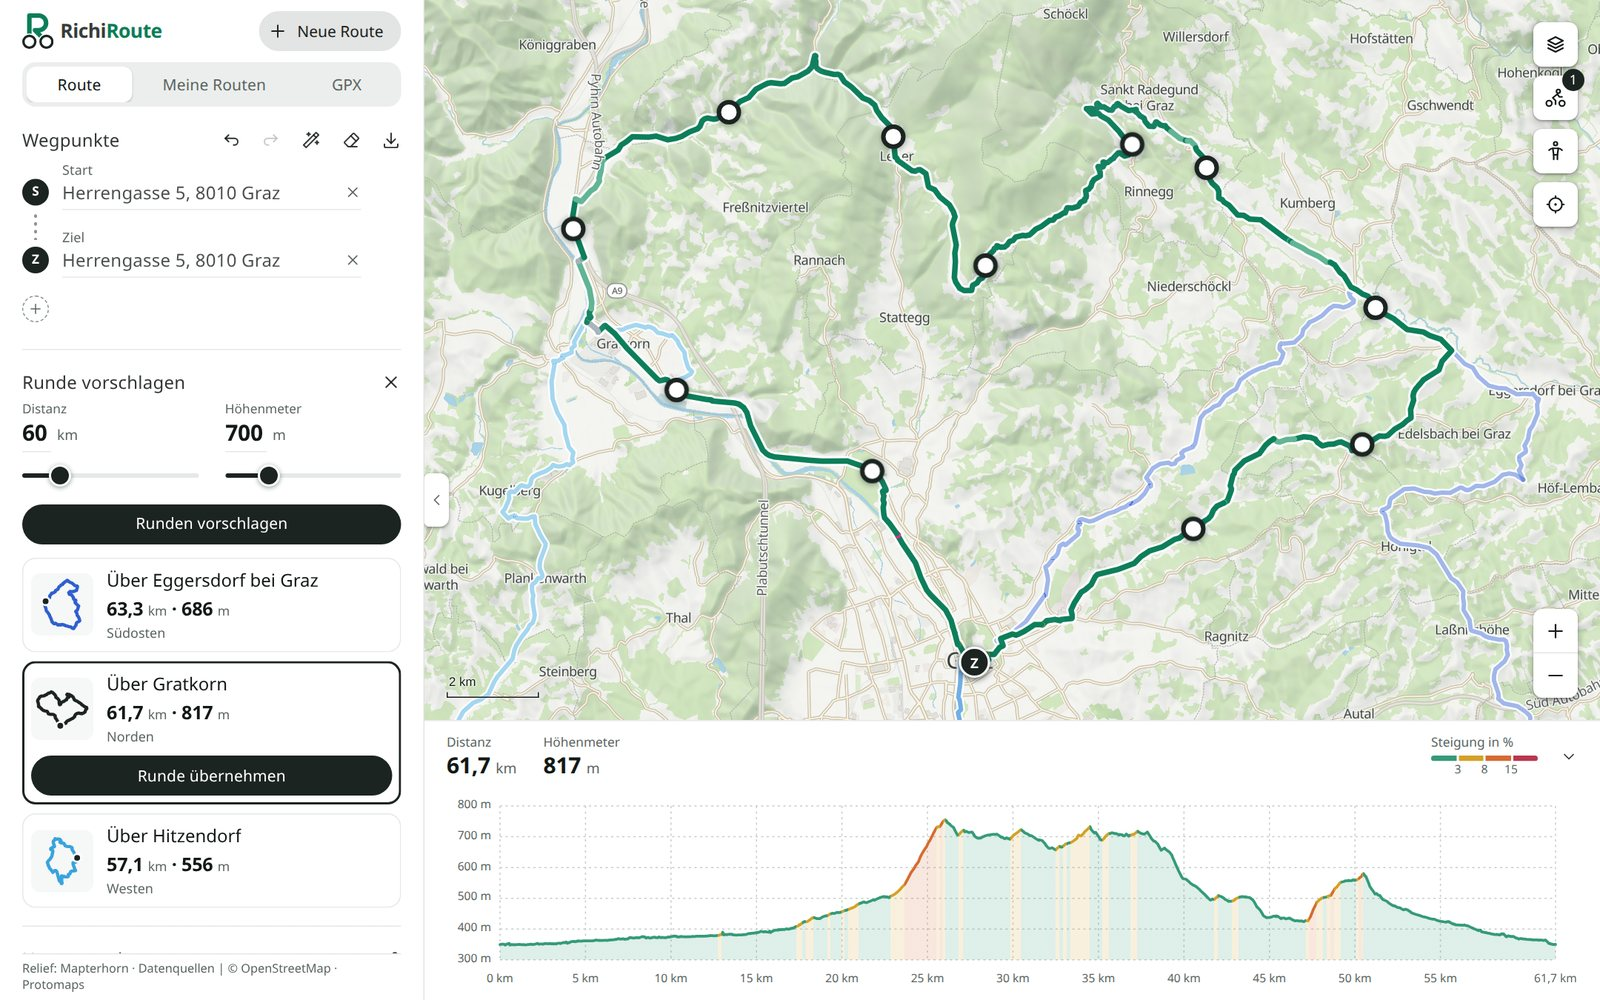
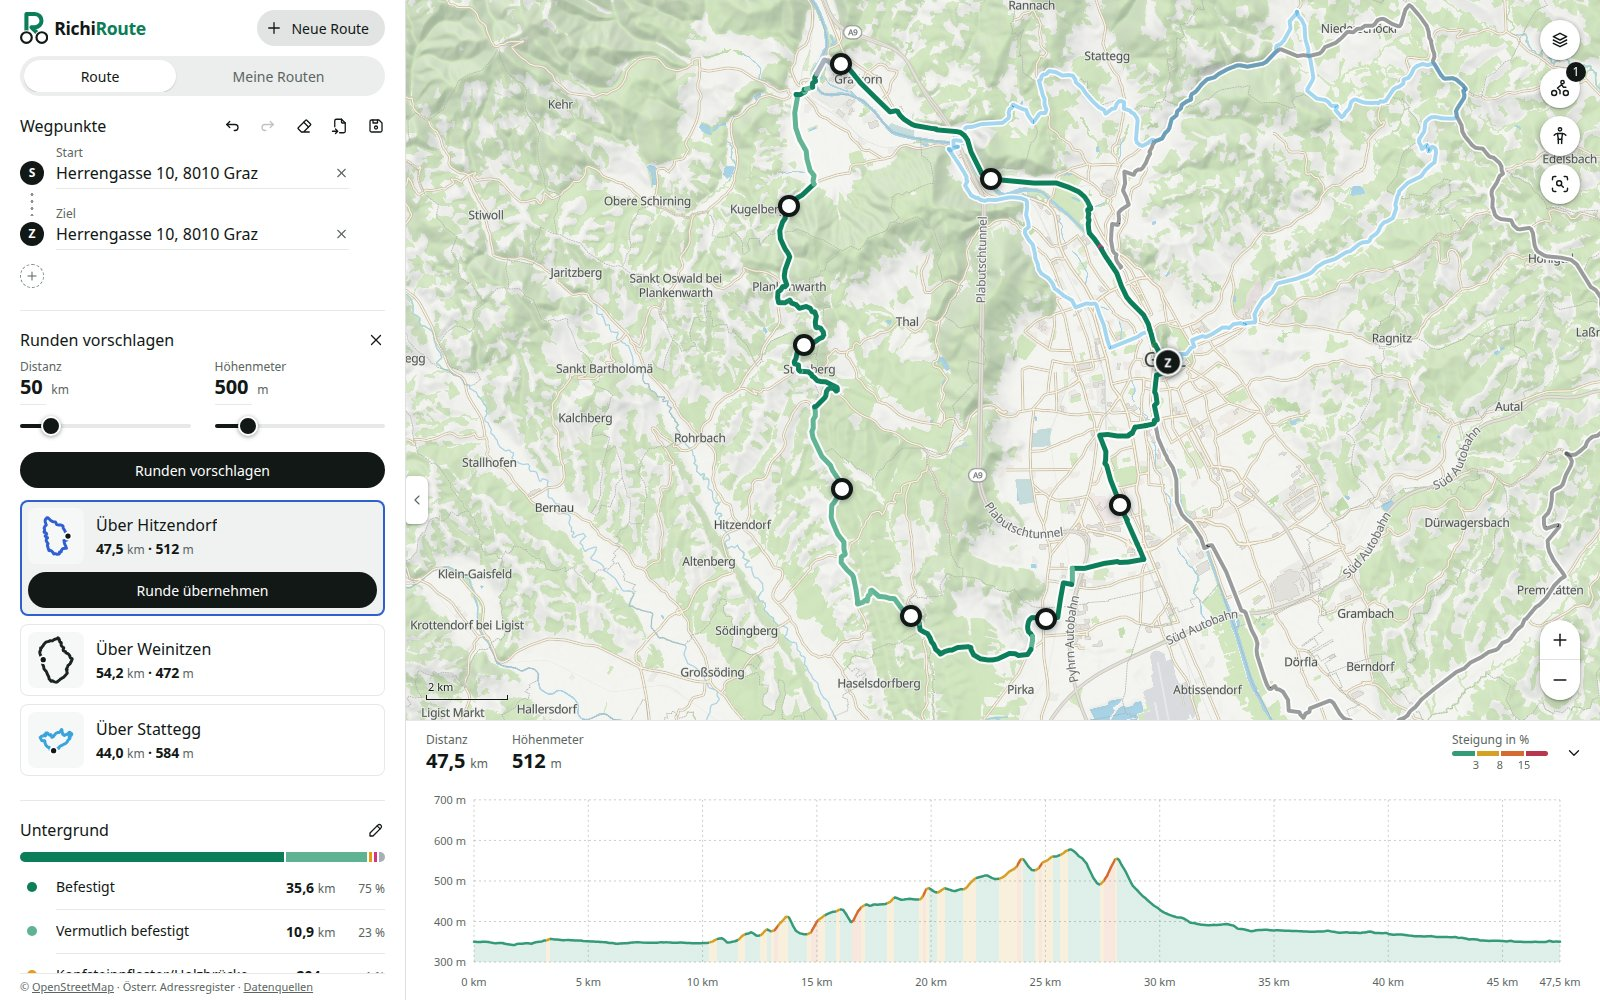
Update README and screenshot

diff --git a/README.md b/README.md
@@ -25,19 +25,20 @@ active development and tested around Graz and Styria, Austria.
   stretch's length, climbing and steepest gradient.
 - See the road surface along the route (paved, probably paved, cobblestones or wooden bridges, unpaved, unknown)
   and highlight each section on the map.
-- Look at Google Street View from any point on the map or the profile.
+- Look at Google Street View from any point: right-click the map (on a phone, long-press), or use the profile.
 - Switch between a local map with shaded relief, an aerial view with street names, and OpenTopoMap online; show
   cycle paths, signed cycle routes, drinking water, bike shops, food stops and railway stations.
 
 **Keep and share**
 
-- Save routes in **Meine Routen**, reopen, rename and duplicate them.
-- Download a route as GPX for your bike computer, or as a RichiRoute file to keep it editable.
-- Open a GPX track as an editable route, with its exact path and heights.
+- **Speichern** keeps a route in **Meine Routen** (the planner's second tab, where you reopen, rename and duplicate
+  routes), or downloads it as GPX for your bike computer or as a RichiRoute file to keep it editable.
+- Open a GPX track or a RichiRoute file as the route, from the open button or by dropping it on the page; a GPX
+  track keeps its exact path and heights.
 
 Routing prefers paved roads, so unpaved sections are rare but possible. Where the map
 data records no surface, the road type usually tells; the rest is marked as unknown. When the map data has a surface
-wrong, you can correct it in the local planner, and routing uses the correction from then on.
+wrong, you can correct it under **Untergrund** in the local planner, and routing uses the correction from then on.
 
 ## Status and limits
 
@@ -52,8 +53,9 @@ wrong, you can correct it in the local planner, and routing uses the correction 
 ## Getting started
 
 You need Linux on x64 with 16 GB of memory, about 50 GB of free disk space (the European map is about 25 GB, the
-address search about 10 GB), and the verified routing bundle `richiroute-ubuntu-benchmark/` placed next to this
-checkout. The bundle is not part of this repository, and there is no download command for it yet.
+address search about 10 GB), Python 3.12 or newer with pip (for the aerial imagery setup), and the verified routing
+bundle `richiroute-ubuntu-benchmark/` placed next to this checkout. The bundle is not part of this repository, and
+there is no download command for it yet.
 
 ```sh
 node scripts/setup-native.mjs            # Node, GraalVM and Rust runtimes (any Node 22 or newer runs it)
@@ -62,12 +64,13 @@ npm ci
 npm run search:setup                     # address search
 npm run maps:setup                       # European street map
 npm run terrain:setup                    # shaded relief
+npm run imagery:setup                    # European aerial overview
 npm run dev:local                        # starts everything
 ```
 
-Then open **http://127.0.0.1:5173/**. The first downloads are large and take a while. Aerial photos
-(`npm run imagery:setup`) and the cycling overlays (`npm run cycling:setup`) are optional. Ctrl+C stops all
-services.
+`dev:local` builds and starts the routing engine (port 17777), the address search (2322), the map service (8088)
+and the planner; then open **http://127.0.0.1:5173/**. The first downloads are large and take a while. The cycling
+overlays (`npm run cycling:setup`) are optional. Ctrl+C stops all services.
 
 **First steps:** click the map to set a start, then a destination; further clicks add stops. Or set only a start and
 choose **Runden vorschlagen** for round trips. Drag the route to take another road (on a phone, hold it briefly
@@ -94,7 +97,7 @@ the other checks are listed under [checks](docs/local-development.md#checks).
 
 | Folder | Contents |
 |---|---|
-| `src/` | The planner: Vue 3, Vuetify, TypeScript, Pinia, MapLibre GL JS |
+| `src/` | The planner: Vue 3, Vuetify 4, Pinia, MapLibre GL JS 6, TypeScript, built with Vite 8 |
 | `engine/` | The routing engine, a Rust port of BRouter 1.7.10 that answers exactly as BRouter does ([porting notes](engine/PORTING.md)) |
 | `search/` | The address search in Rust, built from the Austrian address register and OpenStreetMap; `search/wasm` runs it in a browser |
 | `config/` | Shared routing rules: local passage exceptions, turns, avoidances, surface corrections ([workflow](docs/local-development.md#managing-local-routing-rules)) |
@@ -110,7 +113,7 @@ Downloaded runtimes, map data, build output and local benchmark recordings stay 
 Map and routing data © [OpenStreetMap](https://www.openstreetmap.org/copyright) contributors. Vector tiles by
 [Protomaps](https://protomaps.com/), relief by Mapterhorn. Addresses © Österreichisches Adressregister
 ([BEV](https://www.bev.gv.at/), CC BY 4.0), data of the date shown by the search setup. Aerial imagery from Copernicus
-Sentinel, basemap.at, swisstopo and IGN; every source is credited in the planner. The routing engine is ported from
-[BRouter](https://github.com/abrensch/brouter) (MIT, see [`engine/LICENSE-BROUTER`](engine/LICENSE-BROUTER)). Icons
-from [Tabler Icons](https://tabler.io/icons) (MIT); checkboxes and radio buttons use the shapes of
-[Material Design Icons](https://pictogrammer.com/mdi/) (Apache 2.0).
+Sentinel, basemap.at, Land Steiermark, Stadt Graz, swisstopo and IGN; every source is credited in the planner. The
+routing engine is ported from [BRouter](https://github.com/abrensch/brouter) (MIT, see
+[`engine/LICENSE-BROUTER`](engine/LICENSE-BROUTER)). Icons from [Tabler Icons](https://tabler.io/icons) (MIT);
+checkboxes and radio buttons use the shapes of [Material Design Icons](https://pictogrammer.com/mdi/) (Apache 2.0).

diff --git a/docs/local-development.md b/docs/local-development.md
@@ -47,6 +47,7 @@ npm ci
 npm run search:setup
 npm run maps:setup
 npm run terrain:setup
+npm run imagery:setup
 npm run dev:local
 ```
 
